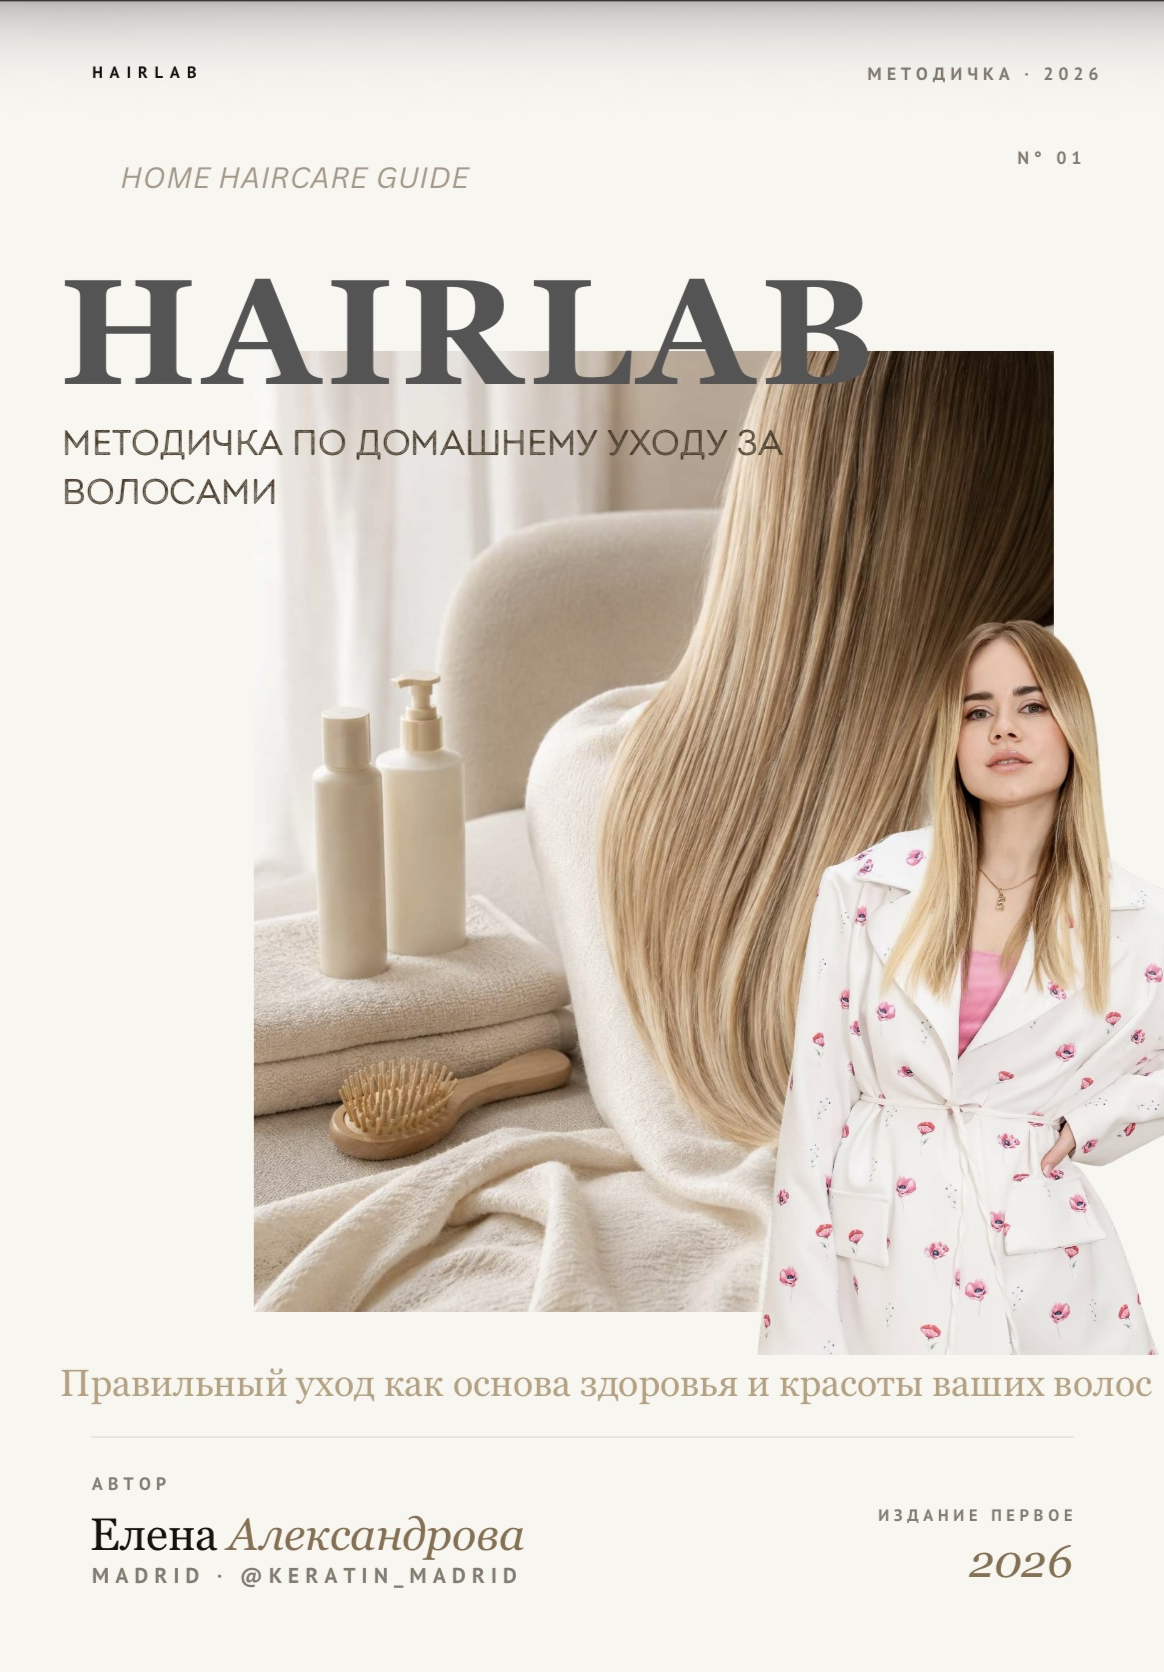
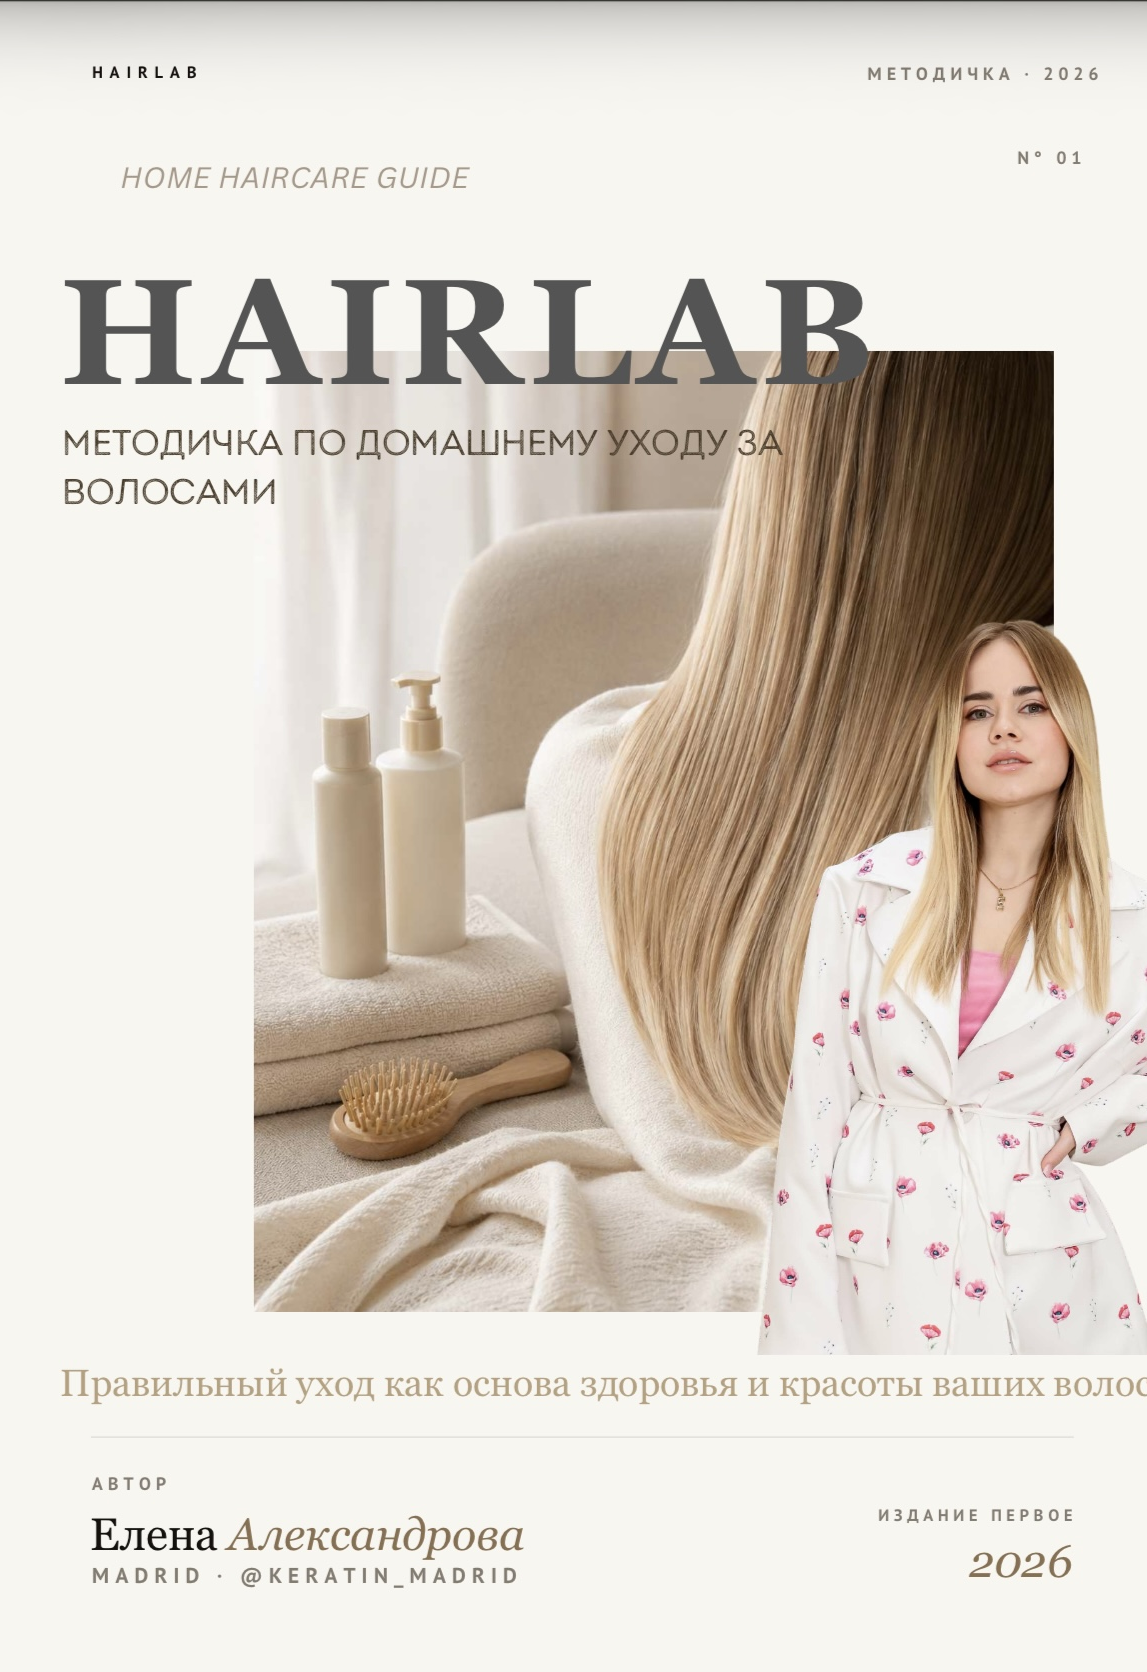
openia

diff --git a/src/components/landing/sections/LandingHeroSection.tsx b/src/components/landing/sections/LandingHeroSection.tsx
@@ -10,19 +10,19 @@ const desktopHeroImage = "/images/heronew.PNG"
 
 const mobilePreviewCards = [
   {
-    alt: "Результат восстановления светлых волос",
+    alt: "Видео-урок из курса HAIRLAB",
     objectPosition: "50% 50%",
-    src: "/images/beforeafter11.png",
+    src: "/images/hero_screen_lesson.png",
   },
   {
-    alt: "Результат восстановления темных волос",
+    alt: "Меню курса HAIRLAB",
     objectPosition: "50% 50%",
-    src: "/images/beforeandafter33.png",
+    src: "/images/hero_screen_menu.jpg",
   },
   {
-    alt: "Проверенные составы для ухода за волосами",
+    alt: "Методички HAIRLAB",
     objectPosition: "50% 50%",
-    src: "/images/prodx.JPEG",
+    src: "/images/guia_pdf.PNG",
   },
 ] as const
 
@@ -68,18 +68,21 @@ function MobilePreviewStrip() {
       transition={{ delay: 0.28, duration: 0.55 }}
       className="relative flex justify-start gap-3"
     >
-      {mobilePreviewCards.map((card) => (
+      {mobilePreviewCards.map((card, index) => (
         <div
           key={card.src}
-          className="relative h-14 w-12 overflow-hidden rounded-[15px] border border-[#E5C8BF]/42 bg-white/10 shadow-[0_14px_30px_rgba(25,18,15,0.24)] backdrop-blur-sm sm:h-16 sm:w-14"
+          className="relative h-[5.5rem] w-[4.5rem] overflow-hidden rounded-sm border border-white/20 bg-white/8 shadow-[0_8px_24px_rgba(20,12,8,0.38)] backdrop-blur-[2px] sm:h-[6.5rem] sm:w-[5.25rem]"
+          style={{
+            transform: index === 2 ? "rotate(-0.8deg)" : index === 1 ? "rotate(0.5deg)" : "rotate(-0.3deg)",
+          }}
         >
           <Image
             alt={card.alt}
             className="object-cover"
             fill
             loading="lazy"
-            quality={95}
-            sizes="76px"
+            quality={92}
+            sizes="88px"
             src={card.src}
             style={{ objectPosition: card.objectPosition }}
           />

diff --git a/src/app/api/diagnose/route.ts b/src/app/api/diagnose/route.ts
@@ -260,7 +260,9 @@ export async function POST(request: NextRequest) {
     // Parse multipart form data
     const formData = await request.formData();
     const file = formData.get('photo') as File;
-    
+
+    console.log('[DIAGNOSIS] File received:', file?.name, file?.size, file?.type);
+
     if (!file) {
       return NextResponse.json(
         { error: 'No photo file provided' },
@@ -292,24 +294,28 @@ export async function POST(request: NextRequest) {
     const fileName = `diagnosis_${timestamp}_${randomString}.${fileExtension}`;
     
     // Upload to Supabase Storage
+    console.log('[DIAGNOSIS] Uploading to Supabase...');
     const { signedUrl, path } = await uploadImageToSupabase(file, fileName);
-    
+    console.log('[DIAGNOSIS] Upload successful, signed URL generated');
+
     // Analyze with OpenAI (with retry)
     let diagnosis: z.infer<typeof DiagnosisResponseSchema> | null = null;
     let tokensUsed = 0;
     let retryCount = 0;
-    
+
     while (retryCount <= 1) {
       try {
+        console.log('[DIAGNOSIS] Calling OpenAI API...');
         const result = await analyzeImageWithOpenAI(signedUrl);
-        
+        console.log('[DIAGNOSIS] OpenAI response received');
+
         // Validate with Zod
         const validated = DiagnosisResponseSchema.parse(result);
         diagnosis = validated;
-        
+
         // Estimate tokens (rough approximation)
         tokensUsed = 1000; // This should come from OpenAI response
-        
+
         break;
       } catch (error) {
         retryCount++;
@@ -345,9 +351,9 @@ export async function POST(request: NextRequest) {
     });
     
   } catch (error) {
-    console.error('Diagnosis error:', error);
+    console.error('[DIAGNOSIS] Error:', error);
     return NextResponse.json(
-      { error: 'Internal server error' },
+      { error: error instanceof Error ? error.message : 'Internal server error' },
       { status: 500 }
     );
   }

diff --git a/src/components/quiz/QuizContainer.tsx b/src/components/quiz/QuizContainer.tsx
@@ -50,15 +50,21 @@ export function QuizContainer() {
         </AnimatePresence>
       </div>
 
-      {currentStep > 0 && (
-        <button
-          type="button"
-          onClick={prevStep}
-          className="mt-6 text-sm text-[#666] hover:text-[#1A1A1A] transition-colors"
-        >
-          ← Назад
-        </button>
-      )}
+      <div className="flex justify-between items-center mt-8">
+        {currentStep > 0 && (
+          <button
+            type="button"
+            onClick={prevStep}
+            className="text-sm font-medium text-[#666] hover:text-[#1A1A1A] transition-colors flex items-center gap-2"
+          >
+            <svg width="16" height="16" viewBox="0 0 24 24" fill="none" stroke="currentColor" strokeWidth="2" strokeLinecap="round" strokeLinejoin="round">
+              <path d="M15 18l-6-6 6-6" />
+            </svg>
+            Назад
+          </button>
+        )}
+        {currentStep > 0 && <div />} {/* Spacer for centering when back button is shown */}
+      </div>
     </div>
   )
 }

diff --git a/src/app/result/page.tsx b/src/app/result/page.tsx
@@ -46,7 +46,16 @@ export default function ResultPage() {
       style={{ background: "var(--color-cream)" }}
     >
       <div className="absolute top-4 left-4">
-        <BackButton />
+        <Link
+          href="/quiz"
+          className="inline-flex items-center gap-2 text-sm hover:text-[var(--color-text)] transition-colors"
+          style={{ color: "var(--color-ink-soft)" }}
+        >
+          <svg width="16" height="16" viewBox="0 0 24 24" fill="none" stroke="currentColor" strokeWidth="2" strokeLinecap="round" strokeLinejoin="round">
+            <path d="M15 18l-6-6 6-6" />
+          </svg>
+          Вернуться к тесту
+        </Link>
       </div>
       <div className="absolute top-4 right-4">
         <Link
